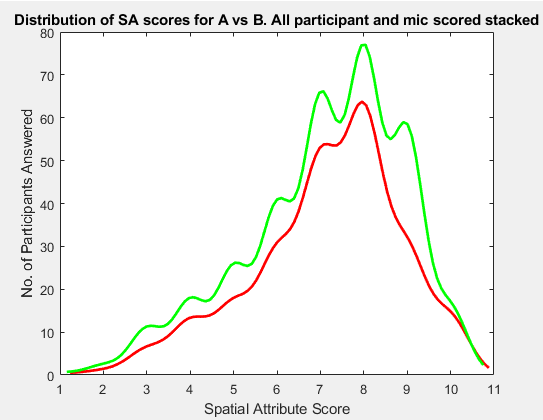
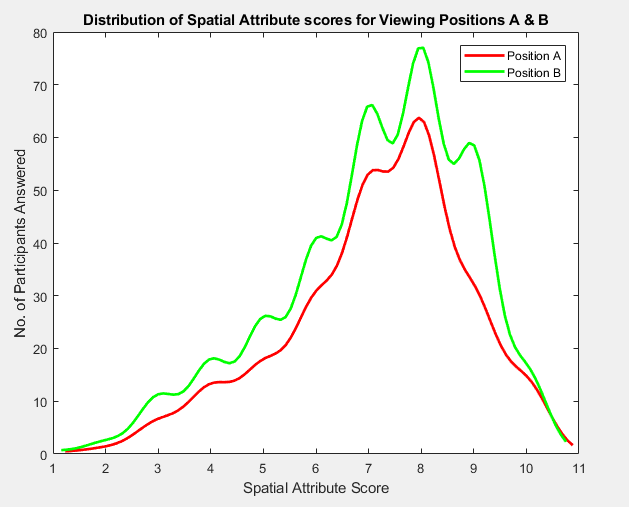
New images and code editing

Changed region(s): [[0.0, 0.031, 1.0, 0.9905], [0.9134, 0.8976, 0.9429, 0.9286]]

diff --git a/Results Decode/plots/plot_sa_vs_ta_Corr.m b/Results Decode/plots/plot_sa_vs_ta_Corr.m
@@ -39,20 +39,19 @@ taUnsorted(8:15,2,:) = timbreResults_H(:,:);
 for i = 1:6
     taUnsorted(:,1,i) = 1:15;
 end
-%%
-% Plot correlation
-% limit data between 0 - 1
-%a = squeeze(saSort(:,2,:));
 a = squeeze(saUnsorted(:,2,:));
 b(:,1:6) = squeeze(taUnsorted(:,2,1:6));
-clc;
-clf;
+legIndex = 1; % Used for variable sized legend (added legend for plotting extra data
+cIndex = 1;
 titles = {'Locatedness','Sense of Space','Externalisation','Envelopment'};
 colors = {'r','b','k','c','m'};
 markers = {'o','x', '*'};
-legIndex = 1; % Used for variable sized legend (added legend for plotting extra data
-cIndex = 1;
+clc;
+clf;
 
+%% PLOT ALL ON SUBPLOTS
+% Plot correlation
+% limit data between 0 - 1
 for i = 1:4
     for t = 1:6
         % Empty array to assign zeros to legend before all R and P is
@@ -86,8 +85,6 @@ for i = 1:4
         % Scale between centre values are aligned
         plotA = squeeze(fittedX(i,t,:));
         plotB = squeeze(fittedY(i,t,:));
-%        plotA = plotA - plotA(100);
-%        plotB = plotB - plotB(100);
         
         % Plot line of best fit
         subplot(2,2,i), h(t) = plot(plotA,plotB);
@@ -105,7 +102,7 @@ for i = 1:4
         hold on
         
         % Indicate lines with low P-Value
-        if P(t) < 0.1
+        if P(t) < 0.05
             set(h(t),'LineStyle','--','Color',colors{cIndex});
             subplot(2,2,i),plot(x,y,markers{cIndex},'Color',colors{cIndex});
             % Add extra legend for new data
@@ -125,8 +122,73 @@ for i = 1:4
     cIndex = 1;
 end
 
-%%
+%% Plot just Envelopment
 clf;
-t = 4;
-plot(fittedX(t,:),fittedY(t,:),'r-');
+i = 4;
+for t = 1:6
+    % Empty array to assign zeros to legend before all R and P is
+    % calculated
+    R = zeros(1,6);
+    P = zeros(1,6);
 
+    % Get attribute names (For legend)
+    [sTitle,tTitle] = getAttributes(sa,t);
+
+    % Use Function
+    [rFun(:,:,i,t),p(:,:,i,t)] = corrcoef(a(:,i),b(:,t));
+    R(t) = round(rFun(1,2,i,t),3);
+    P(t) = round(p(1,2,i,t),3);
+
+    % Calculate manualy
+    x = squeeze(a(:,i));
+    y = squeeze(b(:,t));
+
+    % Calculate correlation coefficient for each SA
+    n = 15;
+    r_temp = (n*(sum(x.*y)) - (sum(x)*sum(y)))/(sqrt((n*(sum(x.^2)) - (sum(x))^2)*(n*(sum(y.^2))-(sum(y))^2)));
+    r(i,t) = round(r_temp,2);
+
+    coeffs = polyfit(x,y,1);
+    % Create vector with linearly distributed points
+    fittedX(i,t,:) = linspace(min(x),max(x),200);
+    % Get Y values of polynomial at value X (spatialAtt)
+    fittedY(i,t,:) = polyval(coeffs,fittedX(i,t,:));
+
+    % Scale between centre values are aligned
+    plotA = squeeze(fittedX(i,t,:));
+    plotB = squeeze(fittedY(i,t,:));
+
+    % Plot line of best fit
+    h(t) = plot(plotA,plotB);
+    % Add Legend for line
+    legtextTEMP = {...
+    sprintf('Full: r=%.2f, p=%.3f',R(1),P(1)),...
+    sprintf('Bright: r=%.2f, p=%.3f',R(2),P(2)),...
+    sprintf('Flat: r=%.2f, p=%.3f',R(3),P(3)),...
+    sprintf('Rich: r=%.2f, p=%.3f',R(4),P(4)),...
+    sprintf('Realistic: r=%.2f, p=%.3f',R(5),P(5)),...
+    sprintf('Loud: r=%.2f, p=%.3f',R(6),P(6))};
+
+    textLegend{legIndex} = legtextTEMP{t};
+    legIndex = legIndex +1;
+    hold on
+
+    % Indicate lines with low P-Value
+    if P(t) < 0.05
+        set(h(t),'LineStyle','--','Color',colors{cIndex});
+        plot(x,y,markers{cIndex},'Color',colors{cIndex});
+        % Add extra legend for new data
+        textLegend{legIndex} = strcat('',tTitle,' Data');
+        disp(sprintf('[Debug]: R(%i): %.3f P(%i): %.3f testLegend{%i}: %s',i,R(t),t,P(t),legIndex,textLegend{legIndex}));
+        cIndex = cIndex + 1;
+        legIndex = legIndex + 1;
+    end
+    grid on
+end
+    
+legIndex = 1;
+title(strcat('Correlation between Timbral Attributes and','{ }',titles{i},''));
+
+leg = legend(textLegend);
+set(leg,'location','best');
+cIndex = 1;

diff --git a/Results Decode/stats/sa/sa_stats_allMics_splitPositions.m b/Results Decode/stats/sa/sa_stats_allMics_splitPositions.m
@@ -6,7 +6,7 @@
 
 %{
     GROUP = MICROPHONE
-    THEREFORE, REARANGE SA MATRIX TO HAVE MICROPHONES IN COLUMS
+    THEREFORE, REARANGE SA MATRIX TO HAVE MICROPHONES IN COLUMNS
 %}
 
 % Rearrange the order of hash_xlRaw matrix
@@ -60,15 +60,17 @@ h2 = histfit(x1(:,1,2),[],'kernel');%delete(h2(1));
 
 %%
 fit = 'kernel';
-close all
-h1 = histfit(x1(:,1,2),[],fit);
+sa = 2;
+clf;
+%close all
+h1 = histfit(x1(:,1,sa),[],fit);
 hold on
-h2 = histfit(x1(:,2,2),[],fit);
-h3 = histfit(x1(:,3,2),[],fit);
-h4 = histfit(x1(:,4,2),[],fit);
-h5 = histfit(x1(:,5,2),[],fit);
-h6 = histfit(x1(:,6,2),[],fit);
-h7 = histfit(x1(:,7,2),[],fit);
+h2 = histfit(x1(:,2,sa),[],fit);
+h3 = histfit(x1(:,3,sa),[],fit);
+h4 = histfit(x1(:,4,sa),[],fit);
+h5 = histfit(x1(:,5,sa),[],fit);
+h6 = histfit(x1(:,6,sa),[],fit);
+h7 = histfit(x1(:,7,sa),[],fit);
 
 xlabel('Spatial Attribute Score');
 ylabel('No. of Participants Answered');

diff --git a/Results Decode/plots/sa/sa_allMics.m b/Results Decode/plots/sa/sa_allMics.m
@@ -24,7 +24,7 @@ for q = 1:4
 end
 
 
-title('Average Spatial Attribute Scores Across Microphone Configurations For Each Questions (ALL)');
+title('Average Spatial Attribute Scores Across Microphone Configurations');
 xlabel('Spatial Attribute Questions');
 ylabel('Average Score');
 
@@ -35,3 +35,9 @@ ylim([5 8.5]);
 grid on;
 %leg = legend('Spots (B)','OCT (B)', 'PCMA (B)', 'AMBEO (B)', 'IRT Cross (B)', 'Hamasaki Cube (B)', 'ST450 (B)','Spots (A)','Eigen (A)','ESMA (A)','ORTF (A)','ST450 (A)','IRT (C)','Hamasaki (C)','ST450(C)');
 %set(leg,'location','best');
+
+%% Calculating averages
+
+c = sum(spatAttAvgMic_ALL(13:15,2))/3
+a = sum(spatAttAvgMic_ALL(10:12,2))/3
+

diff --git a/Results Decode/stats/sa/sa_stats_AvsB_stack.m b/Results Decode/stats/sa/sa_stats_AvsB_stack.m
@@ -36,8 +36,11 @@ hold on
 h2 = histfit(Blist,[],fit);
 xlabel('Spatial Attribute Score');
 ylabel('No. of Participants Answered');
-title(sprintf('Distribution of SA scores for A vs B. All participant and mic scored stacked'));
+title(sprintf('Distribution of Spatial Attribute scores for Viewing Positions A & B'));
 
+% Crete vector for unified legend
+hAll = [h1(2);h2(2)];
+legend(hAll,'Position A','Position B');
 set(h1(2),'color','r'); delete(h1(1));
 set(h2(2),'color','g'); delete(h2(1));
 

diff --git a/Results Decode/plots/ta/ta_sharedMics.m b/Results Decode/plots/ta/ta_sharedMics.m
@@ -37,7 +37,7 @@ b = bar(ta_AB');
 %applyhatch_plusC(x,'/-x.\+','rkbkmk',[],500);
 a = 1;
 set(b,'FaceColor',[a a a]);
-title(sprintf('Timbral Attributes Assigned to Each Microphone Configuration as A Percentage of Participants'));
+title(sprintf('Timbral Attributes Assigned to Each Microphone Configuration as a Percentage of Participants'));
 name = {'Full','Bright','Flat','Rich', 'Realistic', 'Loud'};
 set(gca,'xticklabel',name)
 
